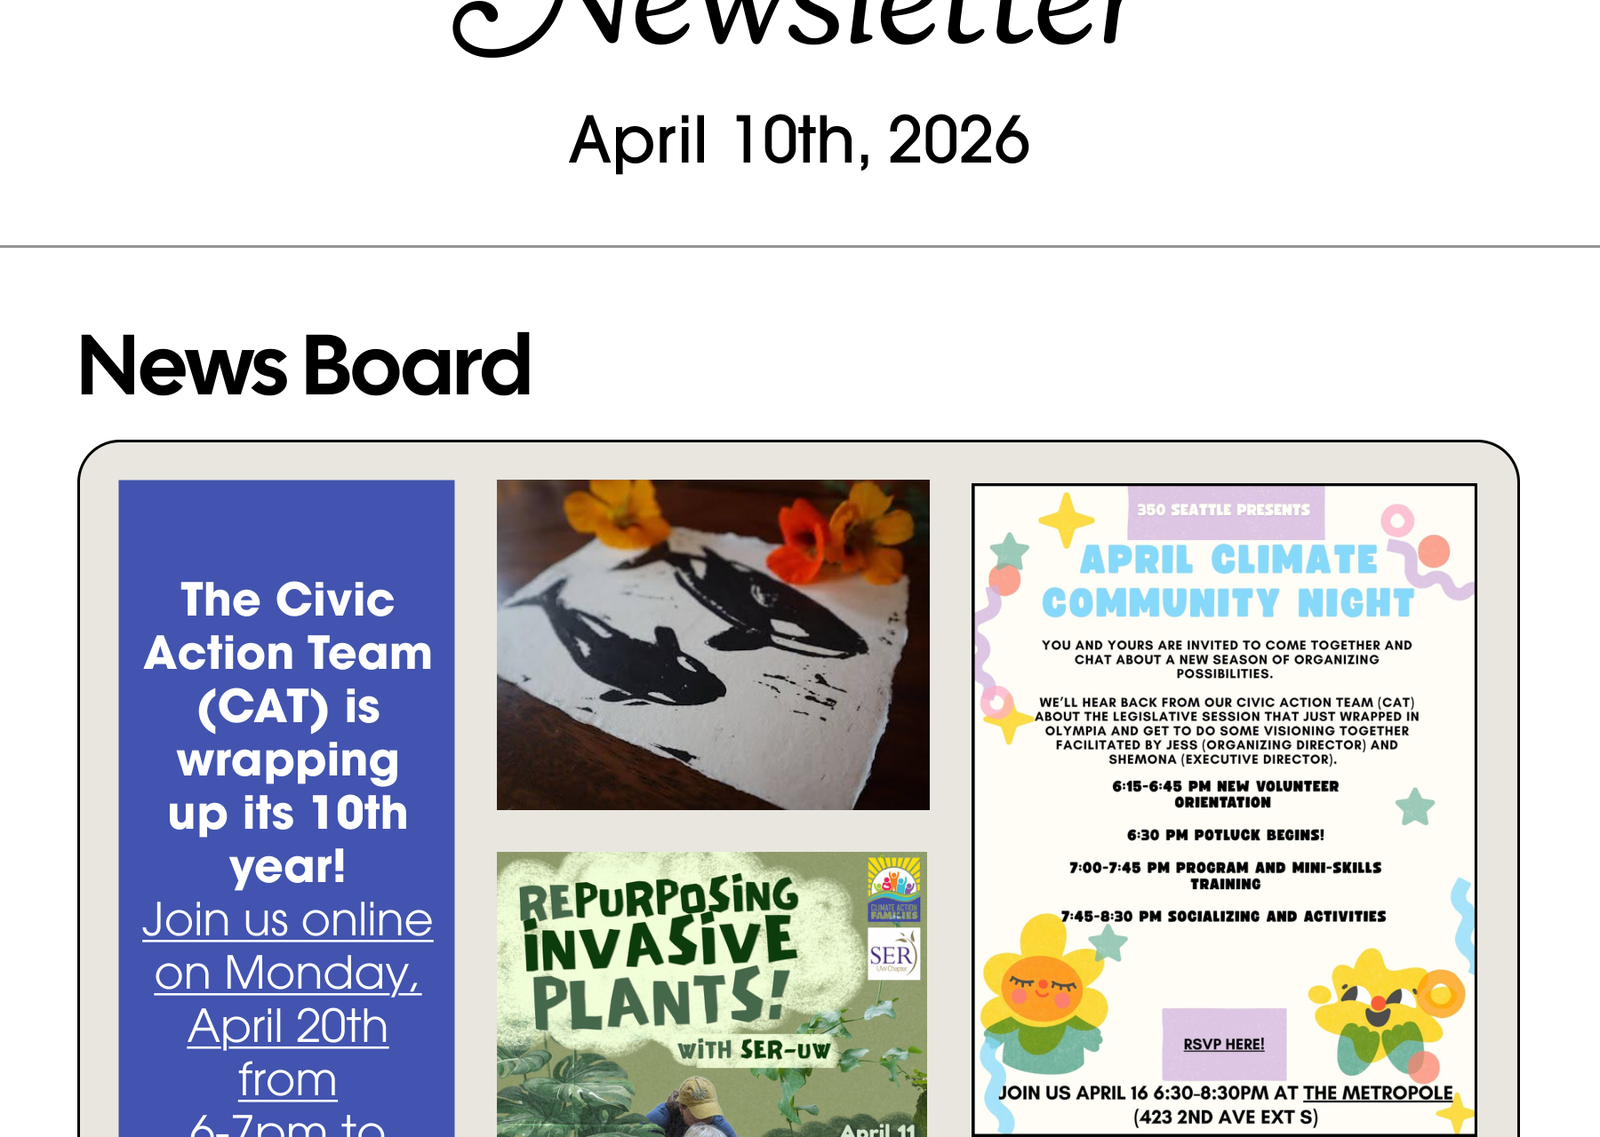
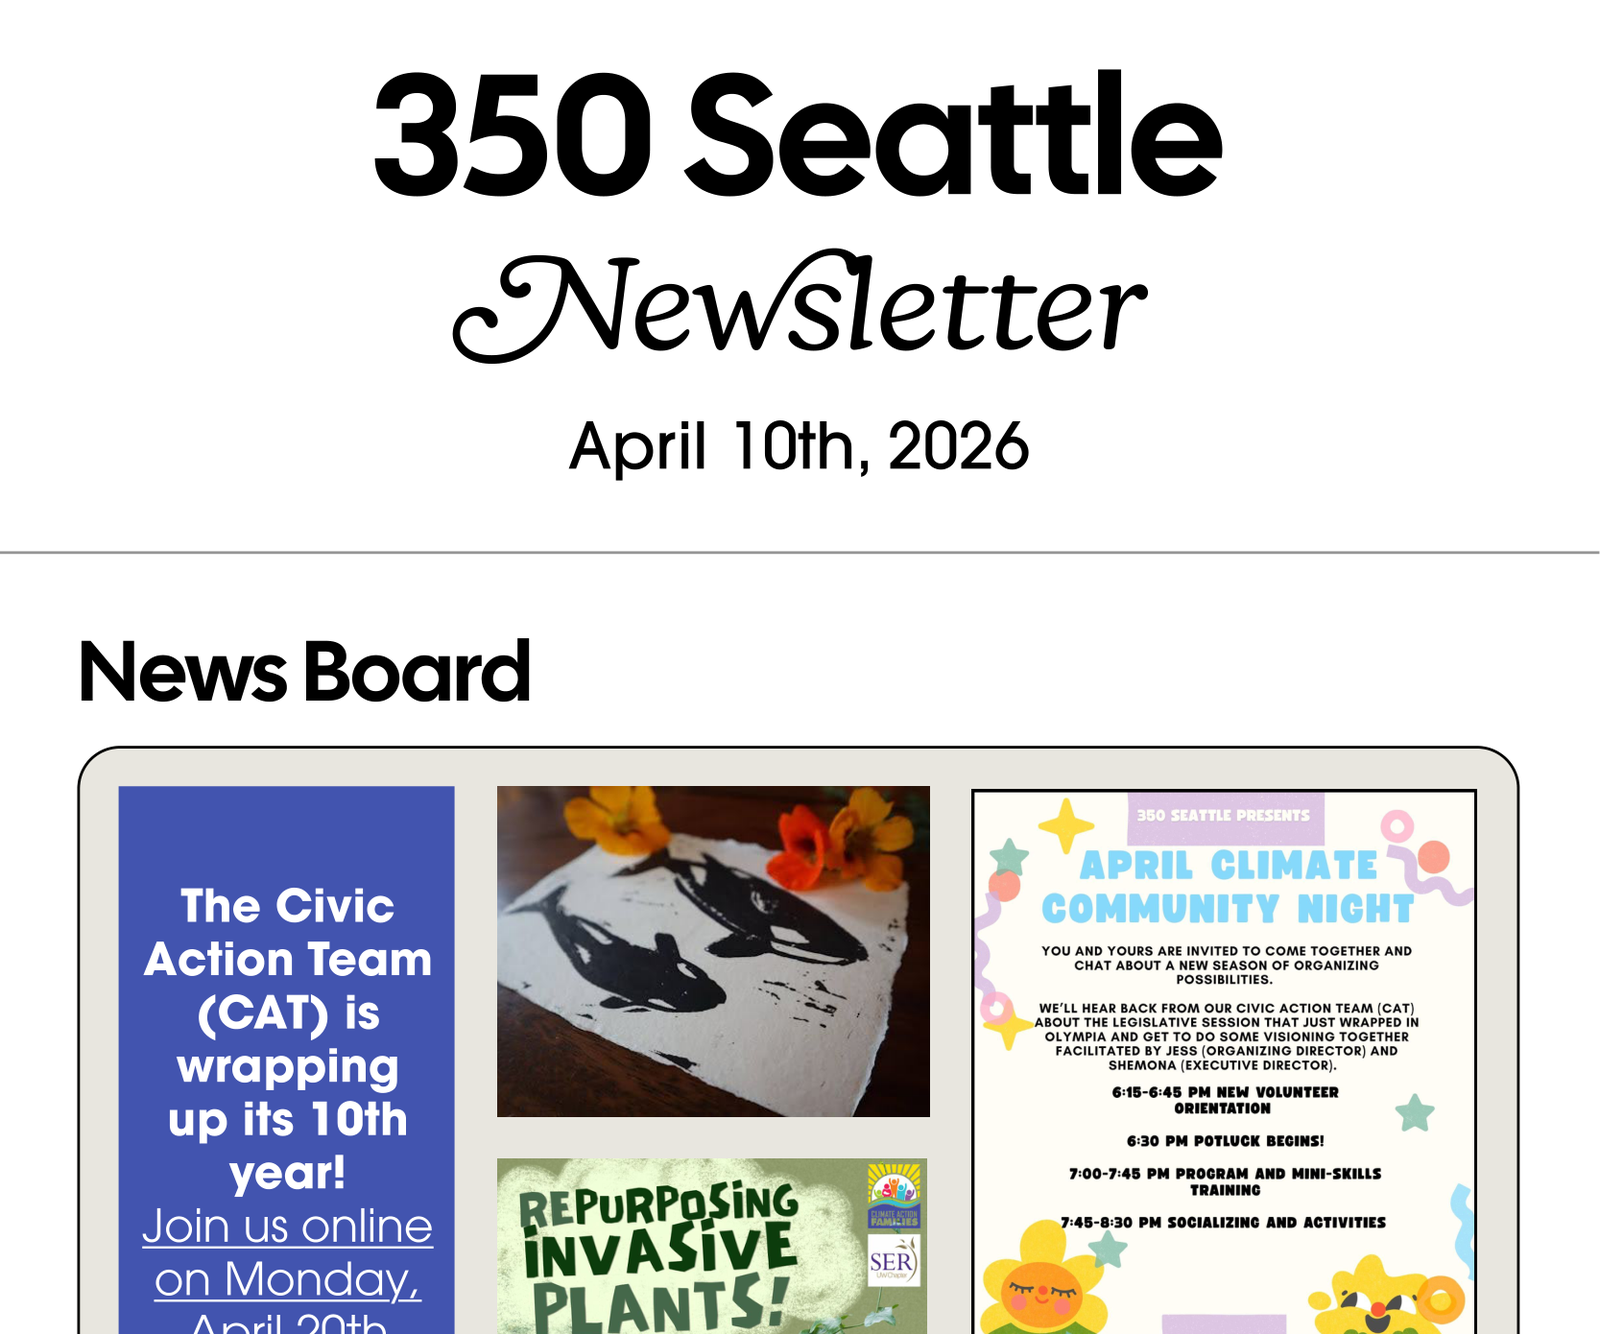
Show the full newsletter masthead in the 350 Seattle hero image

diff --git a/350-seattle-newsletter.html b/350-seattle-newsletter.html
@@ -27,7 +27,7 @@
     <div><dt>Methods</dt><dd>Field study, interviews, CSQ survey, in-vivo coding, affinity mapping, co-design, journey mapping, service blueprinting, prototyping</dd></div>
     <div><dt>Tools</dt><dd>Figma, Google Forms/Sheets, Google Apps Script, Claude API, WordPress, EveryAction CRM</dd></div>
   </dl>
-  <button type="button" class="frame cover" aria-label="Enlarge image" style="margin-top:28px"><img src="assets/350newsletter/hero-newsletter.png" width="1600" height="1137" alt="The 350 Seattle Newsletter prototype: masthead and the start of the interactive News Board tile grid"></button>
+  <button type="button" class="frame cover" aria-label="Enlarge image" style="margin-top:28px"><img src="assets/350newsletter/hero-newsletter.png" width="1600" height="1334" alt="The 350 Seattle Newsletter prototype: masthead and the start of the interactive News Board tile grid"></button>
 </section>
 <div class="layout g">
   <nav class="toc" aria-label="Contents"><h2>Contents</h2><ol>
